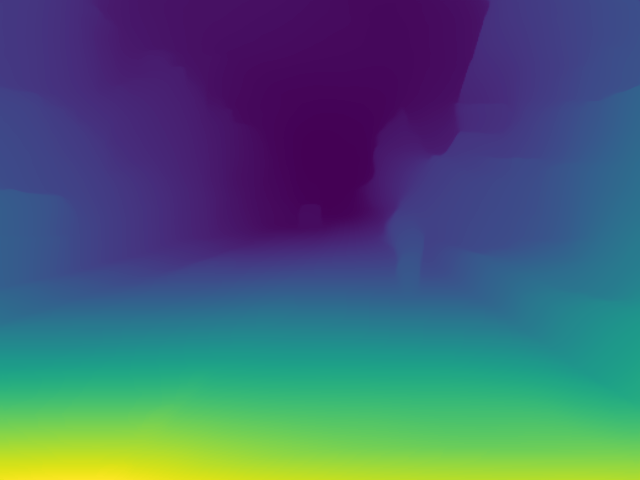
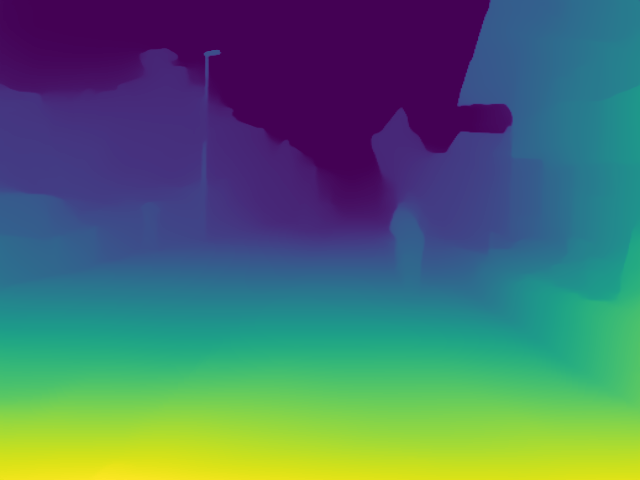
reset state in etnet before every forward

diff --git a/code/test_etnet_on_dsec.py b/code/test_etnet_on_dsec.py
@@ -18,10 +18,10 @@ def parse_args() -> argparse.Namespace:
         "sequence",
         type=str,
         nargs="?",
-        default="datasets/DSEC/data/train/zurich_city_01_e",
-        help="Path to a DSEC sequence root (default: datasets/DSEC/data/train/zurich_city_01_e)",
+        default="datasets/DSEC/data/validate/zurich_city_01_f",
+        help="Path to a DSEC sequence root (default: datasets/DSEC/data/validate/zurich_city_01_f)",
     )
-    parser.add_argument("--index", type=int, default=990, help="Index within the sequence to visualize (depth-aligned events).")
+    parser.add_argument("--index", type=int, default=600, help="Index within the sequence to visualize (depth-aligned events).")
     parser.add_argument("--time-window-ms", type=int, default=50, help="Event window size for building voxel-grid representations.")
     parser.add_argument(
         "--num-bins",
@@ -66,7 +66,7 @@ def main() -> None:
         else torch.device("cuda" if torch.cuda.is_available() else "cpu")
     )
 
-    rep = VoxelGrid(channels=args.num_bins, height=DSEC_HEIGHT, width=DSEC_WIDTH, normalize=True)
+    rep = VoxelGrid(channels=args.num_bins, height=DSEC_HEIGHT, width=DSEC_WIDTH, normalize=False)
     dataset = DsecSequence(
         sequence_path=args.sequence,
         event_representation=rep,
@@ -87,6 +87,8 @@ def main() -> None:
     model = load_etnet(checkpoint_path=args.checkpoint, device=device, use_minmax_norm=args.use_minmax_norm)
     # ET-Net expects (B,C,H,W)
     events = sample["depth_aligned_events"][0].unsqueeze(0).to(device)
+    print(events.shape)
+    print("min:", events.min().item(), "max:", events.max().item())
     recon = model(events)  # (B,1,H,W)
 
     out_dir = ensure_dir(args.output_dir)

diff --git a/code/test_etnet_dav2_on_dsec.py b/code/test_etnet_dav2_on_dsec.py
@@ -24,13 +24,13 @@ def parse_args() -> argparse.Namespace:
         "sequence",
         type=str,
         nargs="?",
-        default="datasets/DSEC/data/train/zurich_city_01_e",
+        default="datasets/DSEC/data/validate/zurich_city_01_f",
         help="Path to a DSEC sequence root",
     )
     parser.add_argument(
         "--index",
         type=int,
-        default=990,
+        default=200,
         help="Index within the sequence to visualize (depth-aligned events).",
     )
     parser.add_argument(

diff --git a/code/networks/etnet.py b/code/networks/etnet.py
@@ -86,6 +86,9 @@ class ETNet(torch.nn.Module):
             events = events.unsqueeze(0)
         assert events.dim() == 4, "events must be (B,C,H,W)"
 
+        # Reset recurrent state if applicable.
+        self.model.reset_states()
+
         events = events.to(self.device)
         output = self.model(events)
         image = output["image"] if isinstance(output, dict) else output

diff --git a/notes/meeting_notes/2026-01-22.md b/notes/meeting_notes/2026-01-22.md
@@ -1,8 +1,8 @@
 ## Next Steps
-- dae contact why it is bad
+- DONE dae contact why it is bad
 - RGB -> dav2
 - research classical with checkpoint event-based mono depth
-- fix ET-Net
+- IN PROGRESS fix ET-Net
 
 - Schedule first stage evaluation
 
